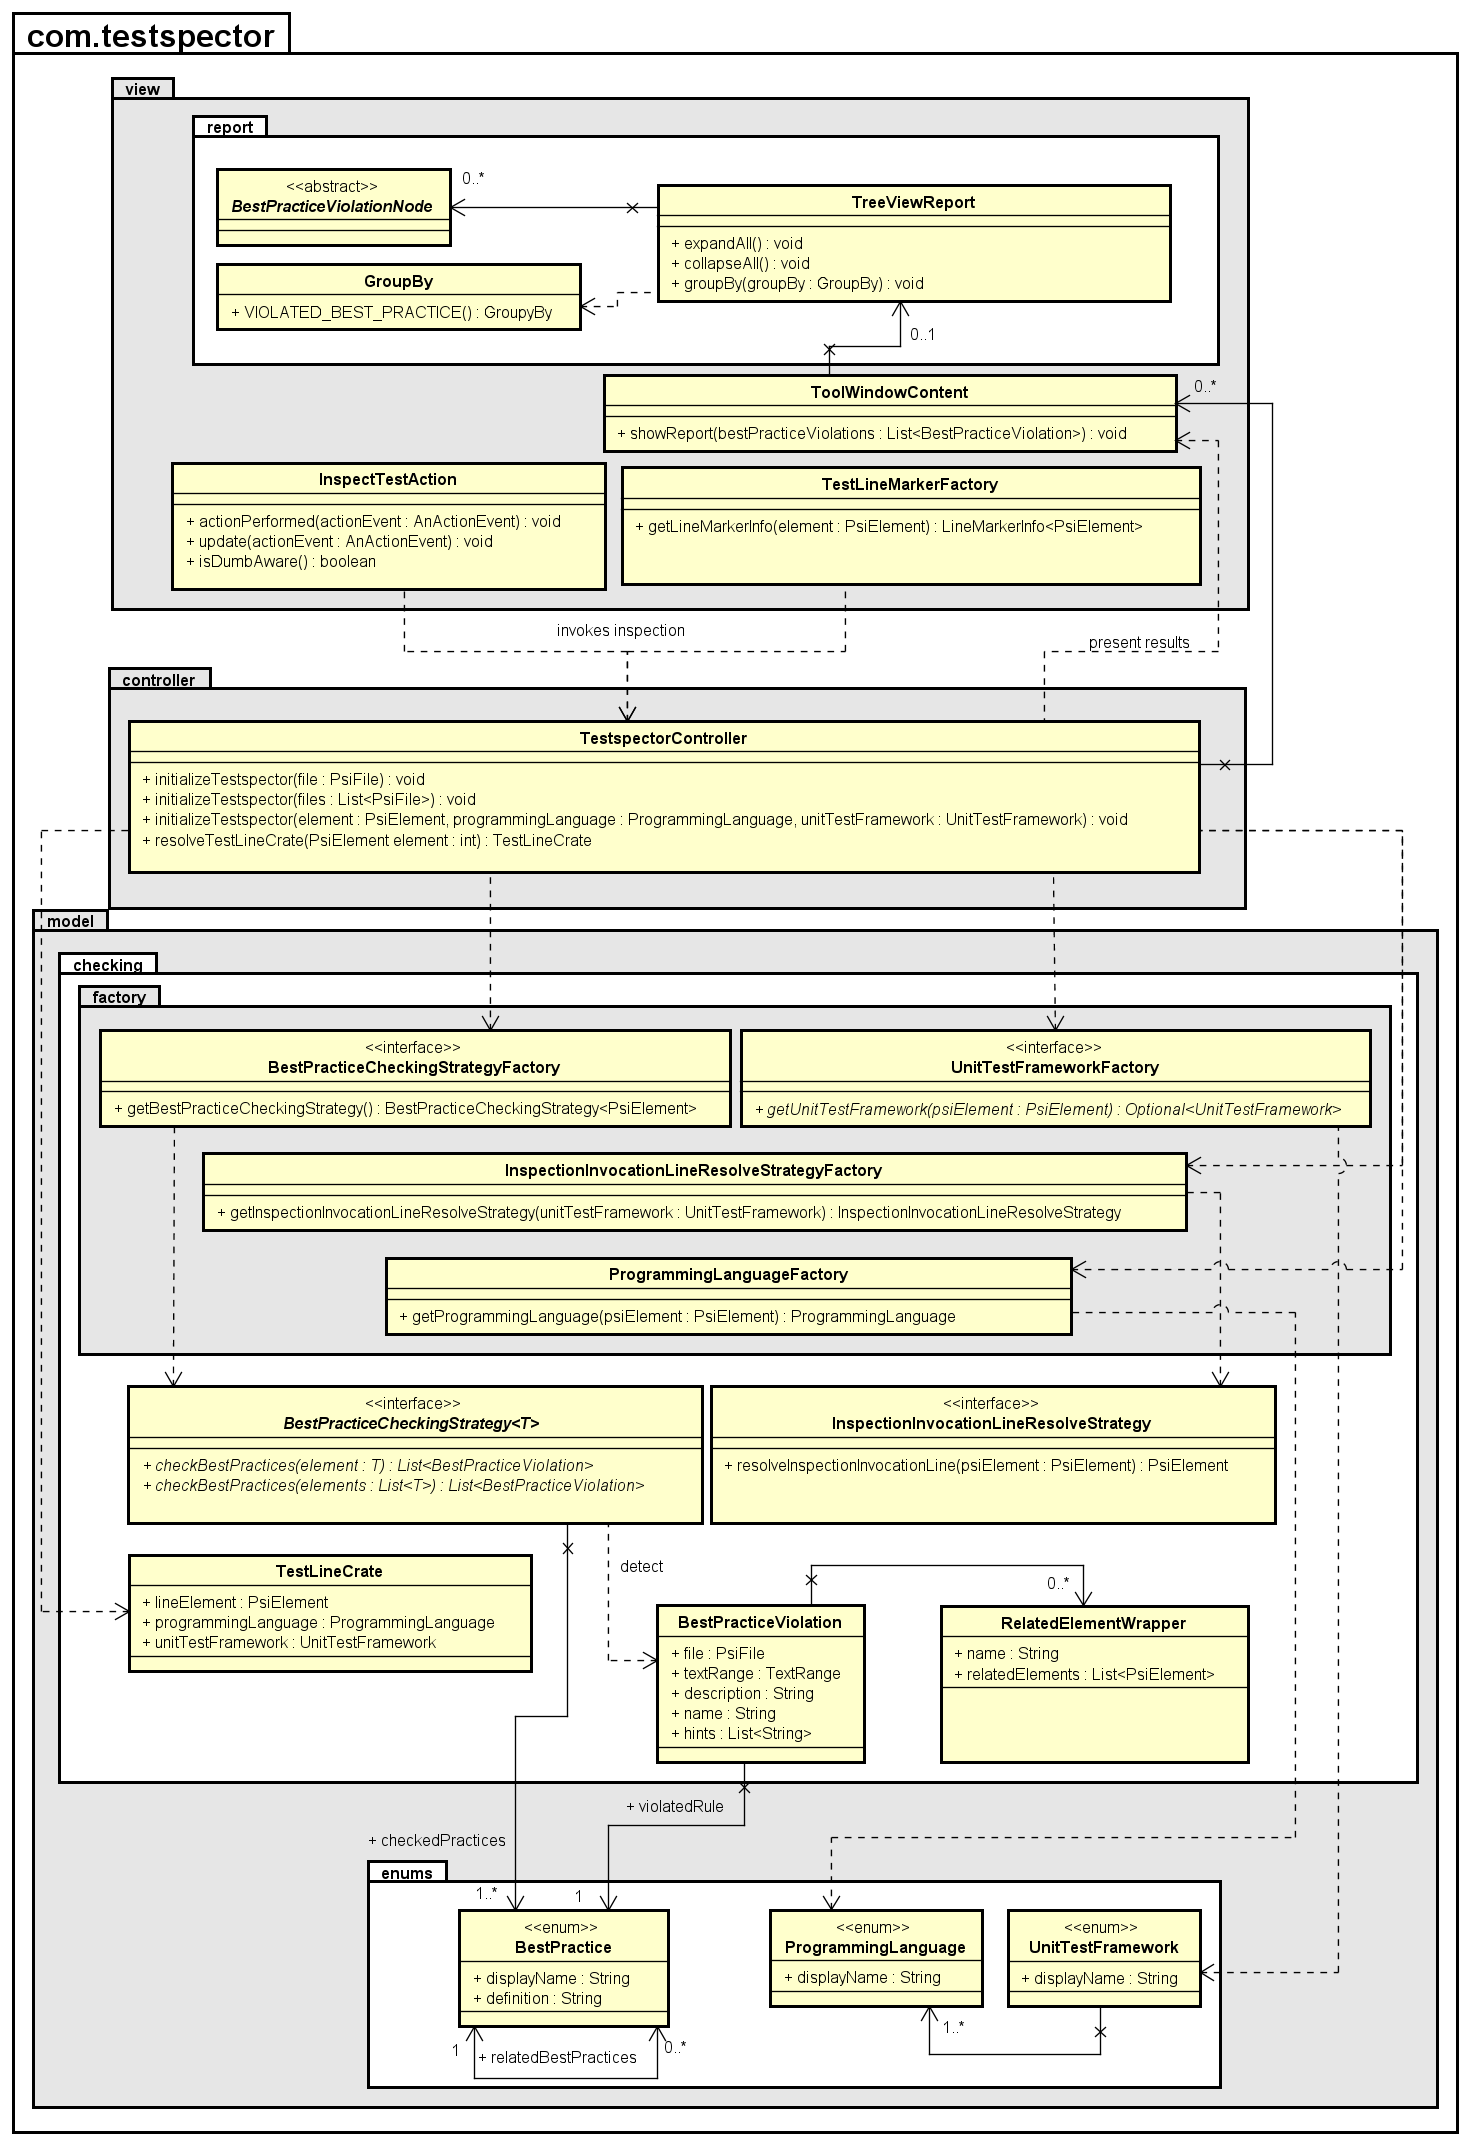
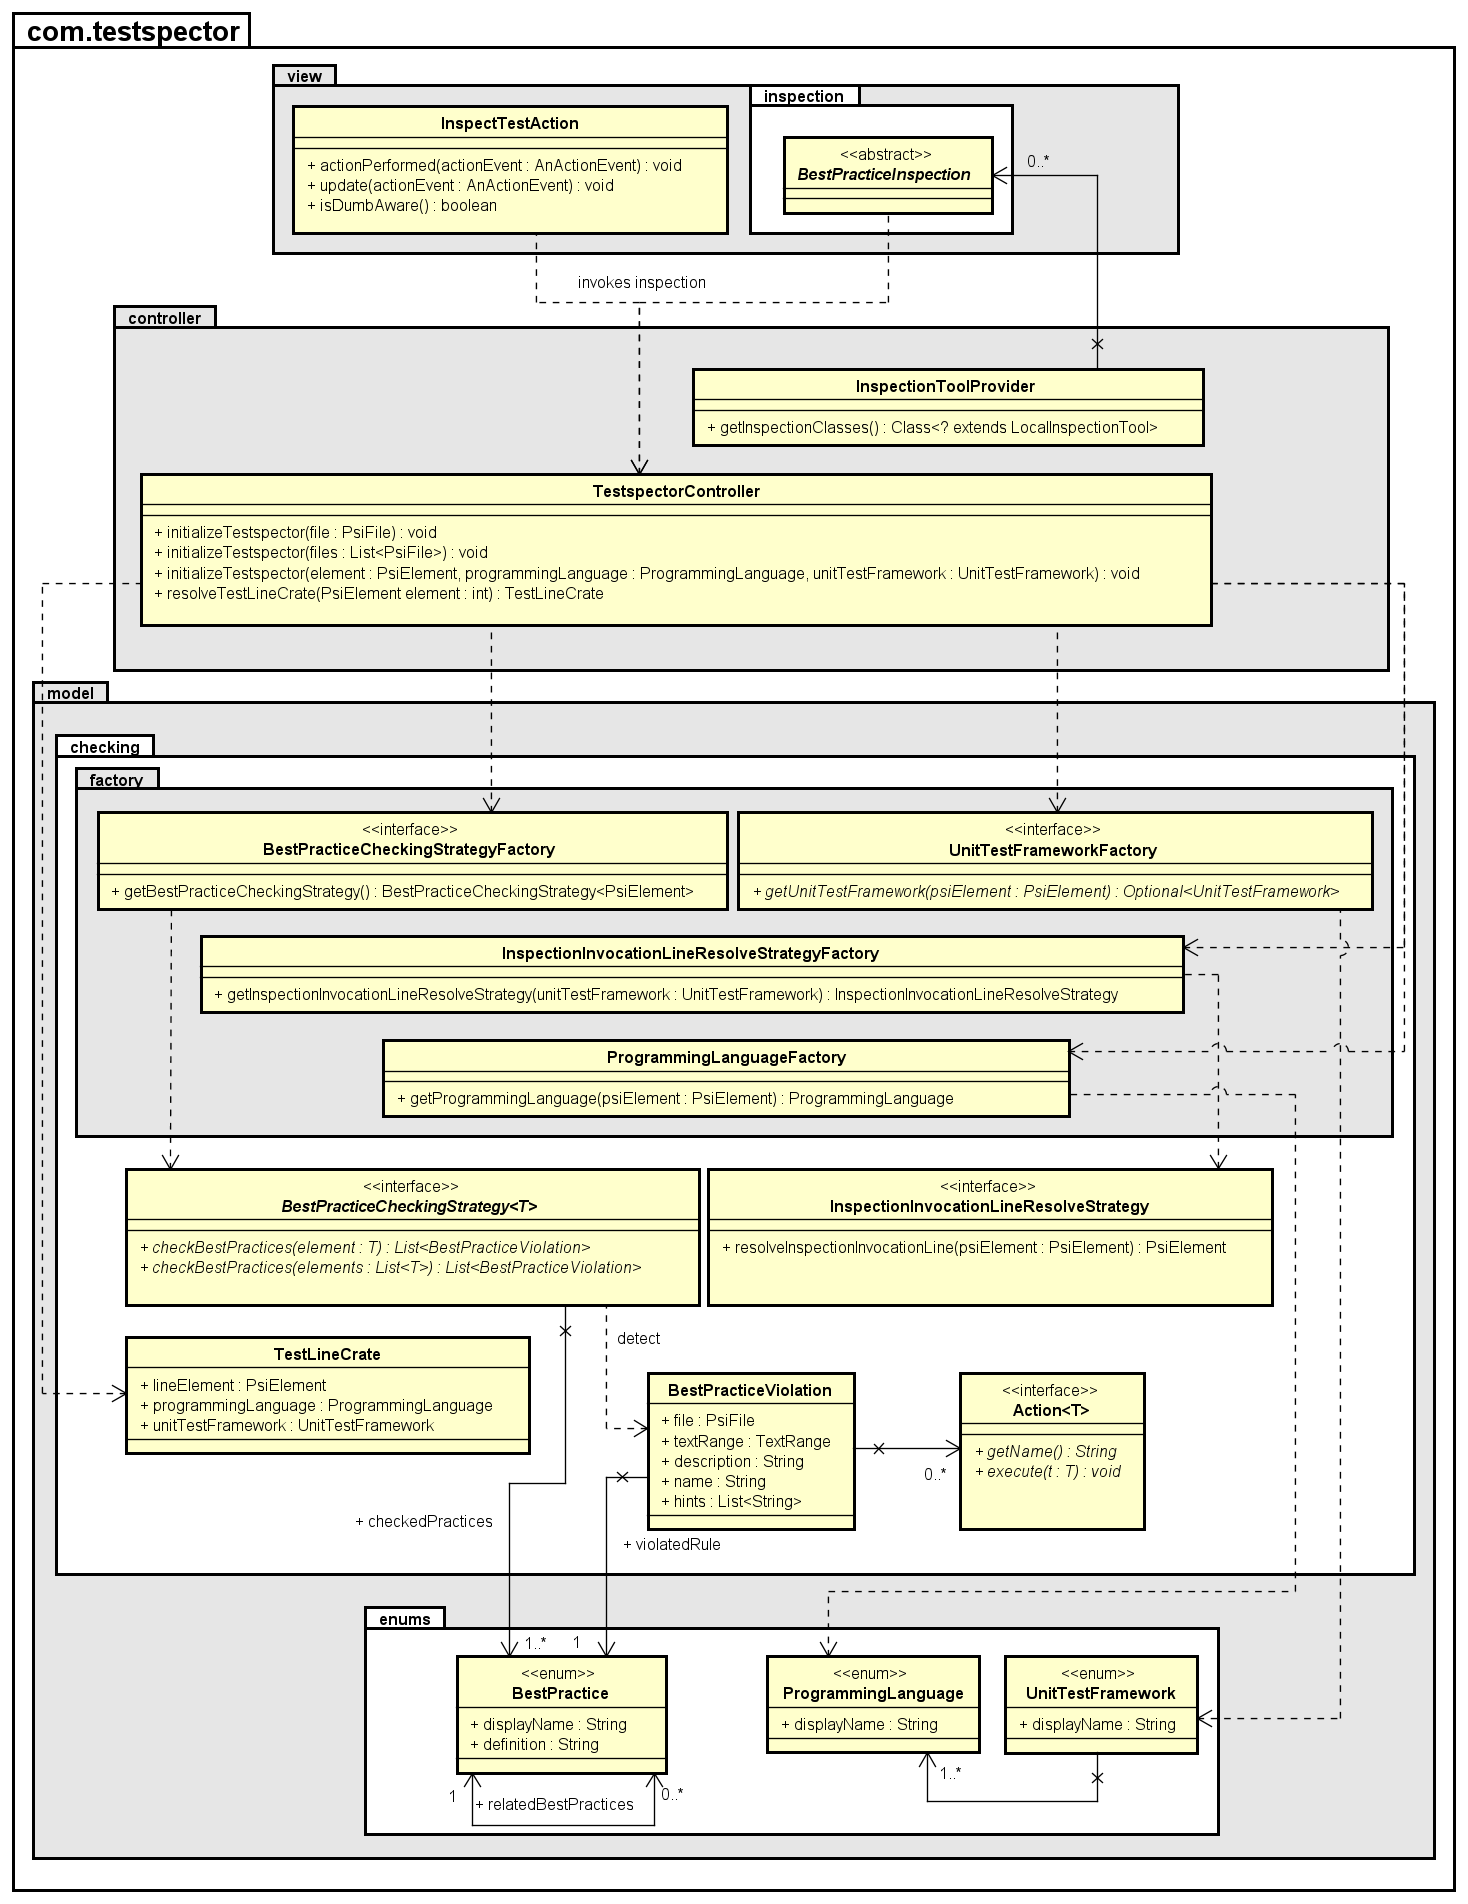
Architecture documentation updated

diff --git a/doc/Architecture.md b/doc/Architecture.md
@@ -9,11 +9,9 @@ The solution is based on the MVC architecture:
 
 ![architecture detail](./Class_diagram_global_detailed.png)
 
-### Datil architecture design
+### Detail architecture design
 
 ![architecture detail](./Class_diagram_global_detailed_factories.png)
-
-![architecture detail](./Class_diagram_global_detailed_view.png)
 
 ## Architecture implementation for the JUnit testing framework
 
